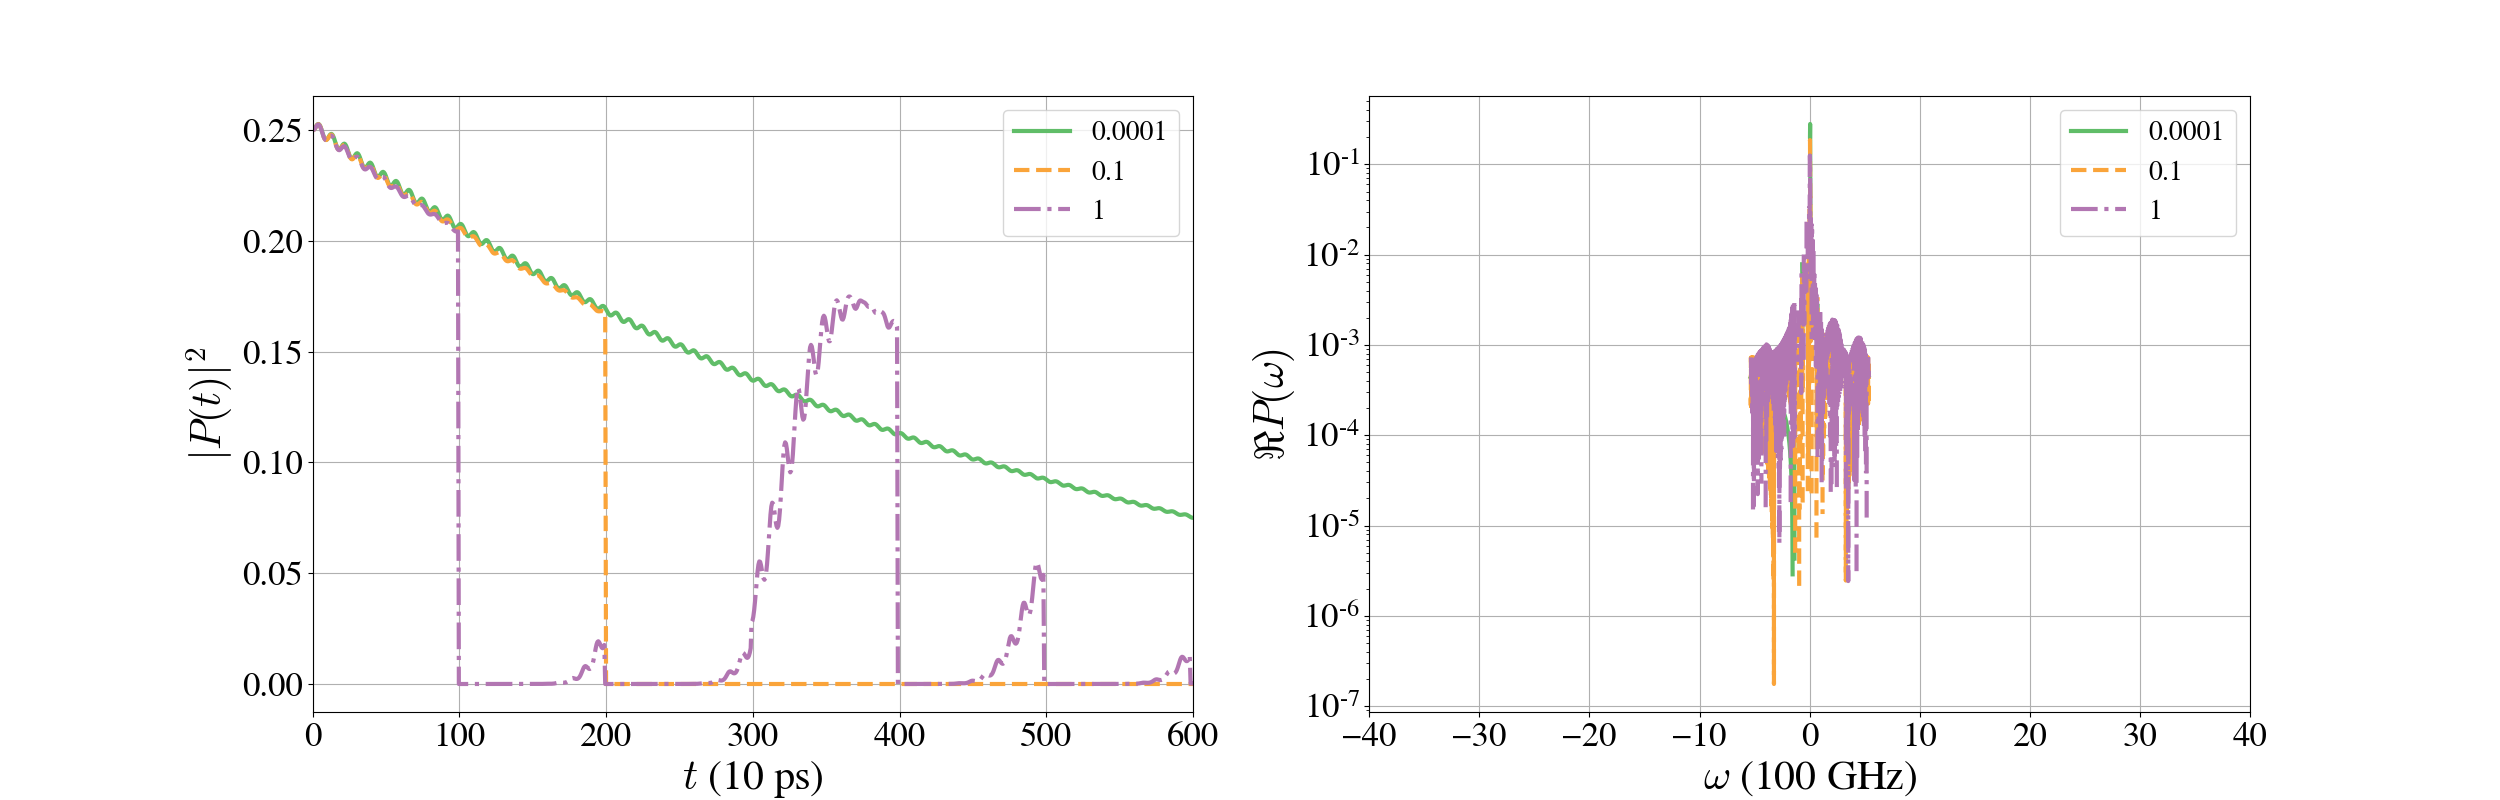
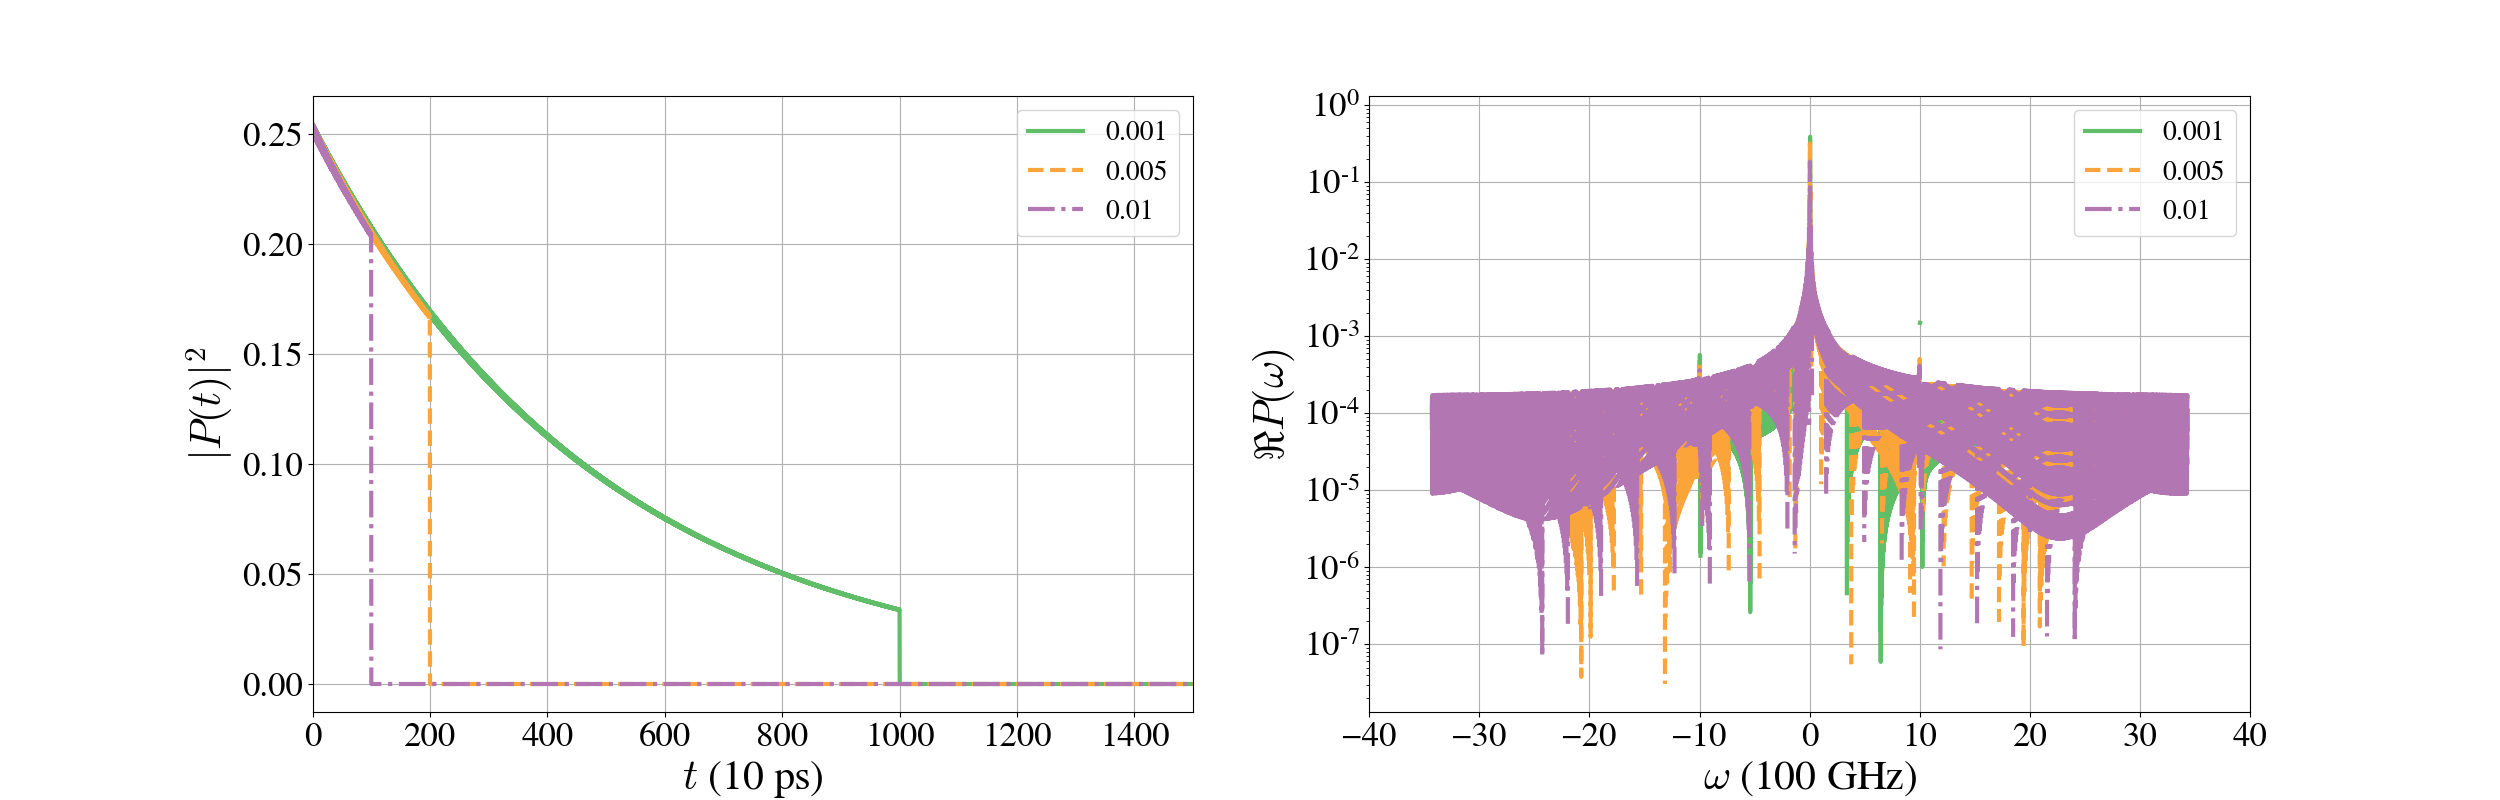
fixed issue, similarly slow....

diff --git a/fbm_feedback_3.py b/fbm_feedback_3.py
@@ -1,6 +1,6 @@
 #!/usr/bin/python3.4
 import matplotlib as mpl
-mpl.use('Agg')
+#mpl.use('Agg')
 import numpy as np
 import matplotlib.pyplot as plt
 import time
@@ -30,112 +30,70 @@ def rho_nodamp_T(D, gamma, oma,nde, t):
 def rho_nodamp_F(D, gamma, oma,nde, t):
 	return (1+D**2/oma**2*2*(1-np.cos(oma*t)))*np.exp(-D**2/oma**2*( (1-np.cos(oma*t))+1j*np.sin(oma*t)-1j*oma*t) )*.5*np.exp(-gamma*t)
 
-@profile
+#@profile
+def f(m, tp, expA, expB):
+	res    = np.zeros(2*(1+k.size),dtype=np.complex128)
+	nv     = np.arange(0,m+1)
+	An     = np.array([A,]*(m+1)).transpose()
+	res[2:2+k.size]  = Ck * kAB**m * ( expA - expB * np.sum((An+B)**nv/factorial(nv)*tp**nv,axis=1) ) #Gk
+	An = None
+	res[1] = -D/B * kappa**m * ( expB * np.sum(tp**(m-nv)*Br**nv/factorial(m-nv)) - Br**m ) #gamma
+	nv = None
+	res[0] = D * expB * kappa**m / factorial(m) * tp**m # F
+	for n in range(0,m+1):
+		lv=np.arange(0,n+1)
+		if n==0:
+			LNkn  = expB-1
+		else:
+			LNkn += (A+B)**n * ( expB * np.sum(tp**(n-lv)*Br**lv/factorial(n-lv)) - Br**n )
+	res[2+k.size:] = Ck * kAB**m * ( Ar*(expA-1) + Br*LNkn ) # Nk
+	LNkn = None
+	return res
+
+#@profile
 def rho_fb(Nt, tau, dt, k, nke, nde, A, Ar, B, Br, D, Ck, kAB, Fock):
 
 	phi_env = np.zeros(Nt,dtype=np.complex128)
 	phi_cav = np.zeros(Nt,dtype=np.complex128)
 	rho_fin = np.zeros(Nt,dtype=np.complex128)
-	Phi     = np.zeros(tau)
 
-	for m in range(0,M+1):
+	for mp in range(0,M+1):
+		if mp==M and Nt>tau:
+			tmax = Nt-M*tau			
+		else:
+			tmax = min(tau,Nt)
+		for it in range(0,tmax):
 
-		looptime=time.time()
-		h       = int((looptime-start)/3600.)
-		mi      = int((looptime-start)/60.-h*60)
-		s       = int((looptime-start)-h*3600-mi*60)
-#		print("m is %d at %02d:%02d:%02d" % (m,h,mi,s))
-#		sys.stdout.flush()	
+			
+			for ms in range(0,mp+1):
+				tp   = ((mp-ms)*tau+it)*dt
+				
+				expA = np.exp(A*tp)
+				expB = np.exp(-B*tp)
 
-		tvec = np.linspace(0,(tau-1)*dt,tau)+m*tau*dt
-#		expB = np.exp(-B*tvec)
-		tsec   = np.array([tvec,]*k.size).transpose()
-#		Arv,expBv = np.meshgrid(Ar,np.expB)
-		nv    = np.arange(0,m+1)
-
-		expA      = np.exp(A*tsec)
+				if ms==0: #res: F,gamma,Gk,Nk
+					res = np.concatenate(( np.array([D * expB, -D * Br * ( expB - 1 )]),\
+								Ck * ( expA - expB ),\
+								Ck * ( Ar*(expA-1) + Br * (expB-1) ) ))
+				else:
+					res += f(ms, tp, expA, expB)
 		
-		for n in range(0,m+1):
+			phi_cav[mp*tau+it] = res[0] * np.conjugate(res[1])
+			phi_env[mp*tau+it] = np.sum( res[2:2+k.size] * np.conjugate(res[2+k.size:]) * dk)
 
-			if n==0:
-				L_Nk_n  = ( np.exp(-B*tsec)-1)
-				L_Gk_n  = np.ones(tsec.shape)+0*1j
-			else:
-				tsecl   =  np.array([ tvec,]*(n+1) ).transpose()
-				lv      = np.arange(0,n+1)
-				L_Nk_l  = np.array([np.sum( tsecl**(n-lv)*Br**lv/factorial(n-lv), axis=1),]*tsec.shape[1]).transpose()
-				lv      = None
-				tsecl   = None
-				L_Nk_n += (A+B)**n * ( np.exp(-B*tsec)*L_Nk_l - Br**n )
-				L_Gk_n += (A+B)**n / factorial(n) * tsec**n
+			Bath = -.5 * np.sum( np.abs(res[2+k.size:])**2 * nke * dk)
 
-		if m==0:				
-			Nk     = Ck * ( (expA-1)/A + Br * L_Nk_n )
-			L_Nk_n = None
-			Gk     = Ck*(expA- np.exp(-B*tsec))
-			expA = None
-			tsec = None
-			if m==M:
-				phi_env[(M*tau):Nt] = np.sum( Gk[0:(Nt-M*tau),:] * np.conjugate(Nk)[0:(Nt-M*tau),:] * dk, axis=1)
+			if Fock==True:
+				Cav_coef = np.complex_( 1. + np.abs(res[1])**2 )
+				Cav_exp  = np.complex_( -.5 * np.abs(res[1])**2 )
 			else:
-				phi_env[(m*tau):((m+1)*tau)] = np.sum( Gk * np.conjugate(Nk) * dk, axis=1)
-		else:
-			Nk    += Ck * ( kAB**m * ( Ar*(expA-1) + Br * L_Nk_n ) )
-			L_Nk_n = None
-			Gk    += Ck * kAB**m * ( expA -  np.exp(-B*tsec)*L_Gk_n )	
-			L_Gk_n = None
-			expA = None
-			tsec = None
-			if m==M:
-				phi_env[(M*tau):Nt] = np.sum( Gk[0:(Nt-M*tau),:] * np.conjugate(Nk)[0:(Nt-M*tau),:] * dk, axis=1)
-				Gk = None
-				kAB= None
-			else:
-				phi_env[(m*tau):((m+1)*tau)] = np.sum( Gk * np.conjugate(Nk) * dk, axis=1)
+				Cav_coef = np.complex_(1.)
+				Cav_exp = np.complex_( -.5 * np.abs(res[1])**2 * nde )
 
-		Bath = -.5 * np.sum( np.abs(Nk)**2 * nke * dk ,axis=1)
-		if m==M:
-			Nk = None					
+			res = None
 
-		if m==0:
-			ga     = -D*Br*( np.exp(-B*tvec)-1)
-			F      = D* np.exp(-B*tvec)
-			if m==M:
-				phi_cav[(M*tau):Nt] = F[0:(Nt-M*tau)] * np.conjugate(ga)[0:(Nt-M*tau)]
-			else:
-				phi_cav[(m*tau):((m+1)*tau)] = F * np.conjugate(ga)
-		else:
-			tsecn  = np.array([tvec,]*(m+1)).transpose()
-			ga    += -D*Br*kappa**m*( np.exp(-B*tvec)*np.sum(tsecn**(m-nv)*Br**nv/factorial(m-nv)) - Br**m )
-			tsecn  = None
-			F     += D*kappa**m/factorial(m)* np.exp(-B*tvec)*tvec**m
-			if m==M:
-				phi_cav[(M*tau):Nt] = F[0:(Nt-M*tau)] * np.conjugate(ga)[0:(Nt-M*tau)]
-				F = None	
-			else:
-				phi_cav[(m*tau):((m+1)*tau)] = F * np.conjugate(ga)
-	 
-		if Fock==True:
-			Cav_coef = np.complex_( 1. + np.abs(ga)**2 )
-			Cav_exp  = np.complex_( -.5 * np.abs(ga)**2 )
-		else:
-			Cav_coef = np.ones(ga.size)
-			Cav_exp = np.complex_( -.5 * np.abs(ga)**2 * nde )
-	
-	
-		if m==M:
-			ga = None
-			for it in range(0,(Nt-M*tau)):
-				Phi[it] = np.imag( np.sum( (phi_cav[0:(it+1+M*tau)] + phi_env[0:(it+1+M*tau)])*dt ) )
-			rho_fin[(M*tau):Nt] = .5 * Cav_coef[0:(Nt-M*tau)] * np.exp( Cav_exp[0:(Nt-M*tau)] + Bath[0:(Nt-M*tau)] - 1j*Phi[0:(Nt-M*tau)] - gam*np.arange((M*tau),Nt)*dt )
-			Bath                = None
-#			Phi                 = None
-		else:
-			for it in range(0,tau):
-				Phi[it] = np.imag( np.sum( (phi_cav[0:(it+1+m*tau)] + phi_env[0:(it+1+m*tau)])*dt ) )
-			rho_fin[(m*tau):((m+1)*tau)] = .5 * Cav_coef * np.exp( Cav_exp + Bath - 1j*Phi - gam*np.arange((m*tau),((m+1)*tau))*dt )
-			Bath                = None
-#			Phi                 = None
+			Phi = np.imag( np.sum( (phi_cav[0:(it+1+mp*tau)] + phi_env[0:(it+1+mp*tau)])*dt ) )
+			rho_fin[it+mp*tau] = .5 * Cav_coef * np.exp( Cav_exp + Bath - 1j*Phi- gam*(it+mp*tau)*dt )
 
 	return rho_fin
 		
@@ -144,7 +102,7 @@ def rho_fb(Nt, tau, dt, k, nke, nde, A, Ar, B, Br, D, Ck, kAB, Fock):
 ### PARAMETERS ###
 ##################
 Fock   = False
-show   = False
+show   = True
 #Trick  = False
 Tau    = True
 
@@ -155,9 +113,9 @@ kappav = np.array([0.001,0.005,0.01])  #in 100GHz
 gam    = 0.001 #in 100GHz
 c      = 0.003
 
-endk   = 2000#9000.
+endk   = 2000#900#0.
 labek  = int(endk/1000.)
-Numk   = 12000#55000
+Numk   = 12000#5500#0
 labNk  = int(Numk/1000.)
 k      = np.linspace(-endk,endk,Numk)# + ome*100.
 dk     = k[1]-k[0]
@@ -168,15 +126,15 @@ hbar   = 6.62607004
 kb     = 1.38064852
 T      = 0.00001
 therm  = hbar/(kb*T)
-hbar=None
-kb  =None
+hbar   = None
+kb     = None
 nde    = 2./(np.exp(therm*oma)-1) + 1.
 nke    = 2./(np.exp(therm*c*np.abs(k))-1) + 1.
 therm = None
 
-endt   = 1500.#6000.
+endt   = 750#600#0.
 labet  = int(endt/1000.)
-Nt     = 2**14#6
+Nt     = 2**13#6
 labNt  = int(np.log2(Nt))
 t      = np.linspace(0,endt,Nt)
 kaptau = 1.
@@ -224,9 +182,6 @@ for i in range(0,kappav.size):
 	B   = 1j*oma + kappa
 	Br  = 1/B
 	kAB = kappa/(A+B)
-#	tp1 = np.linspace(0,((M+1)*tau-1)*dt,(M+1)*tau)
-#	tpm = np.append(tp1,np.zeros((M+1)*tau-tp1.size)).reshape((M+1,tau))
-#	expB   = np.exp(-B*tpm)
 
 	g0  = np.sqrt(kappa*2*c/np.pi)
 	if Tau==True:
@@ -259,9 +214,6 @@ for i in range(0,kappav.size):
 	if i==kappav.size-1:
 		norm=None
 	freq = np.fft.fftshift(np.fft.fftfreq(Nt,(endt)/(Nt-1)))
-#	freq = freqr
-#	freqr=None
-
 
 	now3 = time.time()
 	nowh = int((now3-start)/3600.)
@@ -304,22 +256,6 @@ print('%02d:%02d:%02d' %(h,m,s))
 if show==True:
 	plt.show()
 else:
-#	if Trick==True:
-#
-#		if Fock==True:
-#			fig.savefig("/home/niki/Dokumente/Python/Numerical plots/numeric2_kend%de_Nk%de_tend%de_Nt2e%d_fb_T=0_Fock1_trick2.png" % (labek,labNk,labet,labNt))
-#			fig2.savefig("/home/niki/Dokumente/Python/Numerical plots/Check_fb_k%de_%deNk_t%de_2e%dNt_T=0_Fock1_trick2.png" % (labek,labNk,labet,labNt))
-#		else:
-#			fig.savefig("/home/niki/Dokumente/Python/Numerical plots/numeric2_kend%de_Nk%de_tend%de_Nt2e%d_fb_T=%d_wide_trick2.png" % (labek,labNk,labet,labNt,T))
-#			fig2.savefig("/home/niki/Dokumente/Python/Numerical plots/Check_fb_k%de_%deNk_t%de_2e%dNt_T=%d_wide_trick2.png" % (labek,labNk,labet,labNt,T))
-#	else:
-#		if Fock==True:
-#			fig.savefig("/home/niki/Dokumente/Python/Numerical plots/numeric2_kend%de_Nk%de_tend%de_Nt2e%d_fb_T=0_Fock1.png" % (labek,labNk,labet,labNt))
-#			fig2.savefig("/home/niki/Dokumente/Python/Numerical plots/Check_fb_k%de_%deNk_t%de_2e%dNt_T=0_Fock1.png" % (labek,labNk,labet,labNt))
-#		else:
-#			fig.savefig("/home/niki/Dokumente/Python/Numerical plots/numeric2_kend%de_Nk%de_tend%de_Nt2e%d_fb_T=%d_wide.png" % (labek,labNk,labet,labNt,T))
-#			fig2.savefig("/home/niki/Dokumente/Python/Numerical plots/Check_fb_k%de_%deNk_t%de_2e%dNt_T=%d_wide.png" % (labek,labNk,labet,labNt,T))
-
 	if Tau==True:
 
 		if Fock==True:

diff --git a/fbm_feedback.py b/fbm_feedback.py
@@ -1,6 +1,6 @@
 #!/usr/bin/python3.4
 import matplotlib as mpl
-mpl.use('Agg')
+#mpl.use('Agg')
 import numpy as np
 import matplotlib.pyplot as plt
 import time
@@ -96,20 +96,20 @@ def rho_fb(Nt, tau, dt, k, nk, nd, A, Ar, B, Br, D, Ck, kAB, Fock):
 ### PARAMETERS ###
 ##################
 Fock   = False
-show   = False
+show   = True
 #Trick  = False
 Tau    = True
 
 D      = .7
 oma    = 10 #in 100GHz
 ome    = 0.
-kappav = np.array([0.001,0.1,1])  #in 100GHz
+kappav = np.array([0.001,0.005,0.01])  #in 100GHz
 gam    = 0.001 #in 100GHz
 c      = 0.003
 
-endk   = 9000.
+endk   = 2000.
 labek  = int(endk/1000.)
-Numk   = 55000
+Numk   = 12000
 labNk  = int(Numk/1000.)
 k      = np.linspace(-endk,endk,Numk)# + ome*100.
 dk     = k[1]-k[0]
@@ -123,9 +123,9 @@ therm  = hbar/(kb*T)
 nde    = 2./(np.exp(therm*oma)-1) + 1.
 nke    = 2./(np.exp(therm*c*np.abs(k))-1) + 1.
 
-endt   = 6000.
+endt   = 750.
 labet  = int(endt/1000.)
-Nt     = 2**16
+Nt     = 2**13
 labNt  = int(np.log2(Nt))
 t      = np.linspace(0,endt,Nt)
 kaptau = 1.
@@ -213,8 +213,8 @@ for i in range(0,kappav.size):
 
 ax[0].grid(True)
 ax[1].grid(True)
-ax[0].legend([0.0001,0.1,1],fontsize=20)
-ax[1].legend([0.0001,0.1,1],fontsize=20)
+ax[0].legend([0.001,0.005,0.01],fontsize=20)
+ax[1].legend([0.001,0.005,0.01],fontsize=20)
 ax[0].set_xlabel('$t$ (10 ps)',fontsize=30)
 ax[1].set_xlabel('$\omega$ (100 GHz)',fontsize=30)
 ax[0].set_ylabel('$\left|P(t)\\right|^2$',fontsize=30)
@@ -258,9 +258,9 @@ else:
 	if Tau==True:
 
 		if Fock==True:
-			fig.savefig("/home/niki/Dokumente/Python/Numerical plots/numeric2_fb_T=0_tau=%.2f_Fock1_2.png" % (kaptau))
+			fig.savefig("/home/niki/Dokumente/Python/Numerical plots/numeric2_fb_T=0_tau=%.2f_Fock1.png" % (kaptau))
 		else:
-			fig.savefig("/home/niki/Dokumente/Python/Numerical plots/numeric2_fb_T=%d_tau=%.2f_2.png" % (T,kaptau))
+			fig.savefig("/home/niki/Dokumente/Python/Numerical plots/numeric2_fb_T=%d_tau=%.2f.png" % (T,kaptau))
 	else:
 		if Fock==True:
 			fig.savefig("/home/niki/Dokumente/Python/Numerical plots/numeric2_fb_T=0_notau_Fock1.png" % (labek,labNk,labet,labNt))
